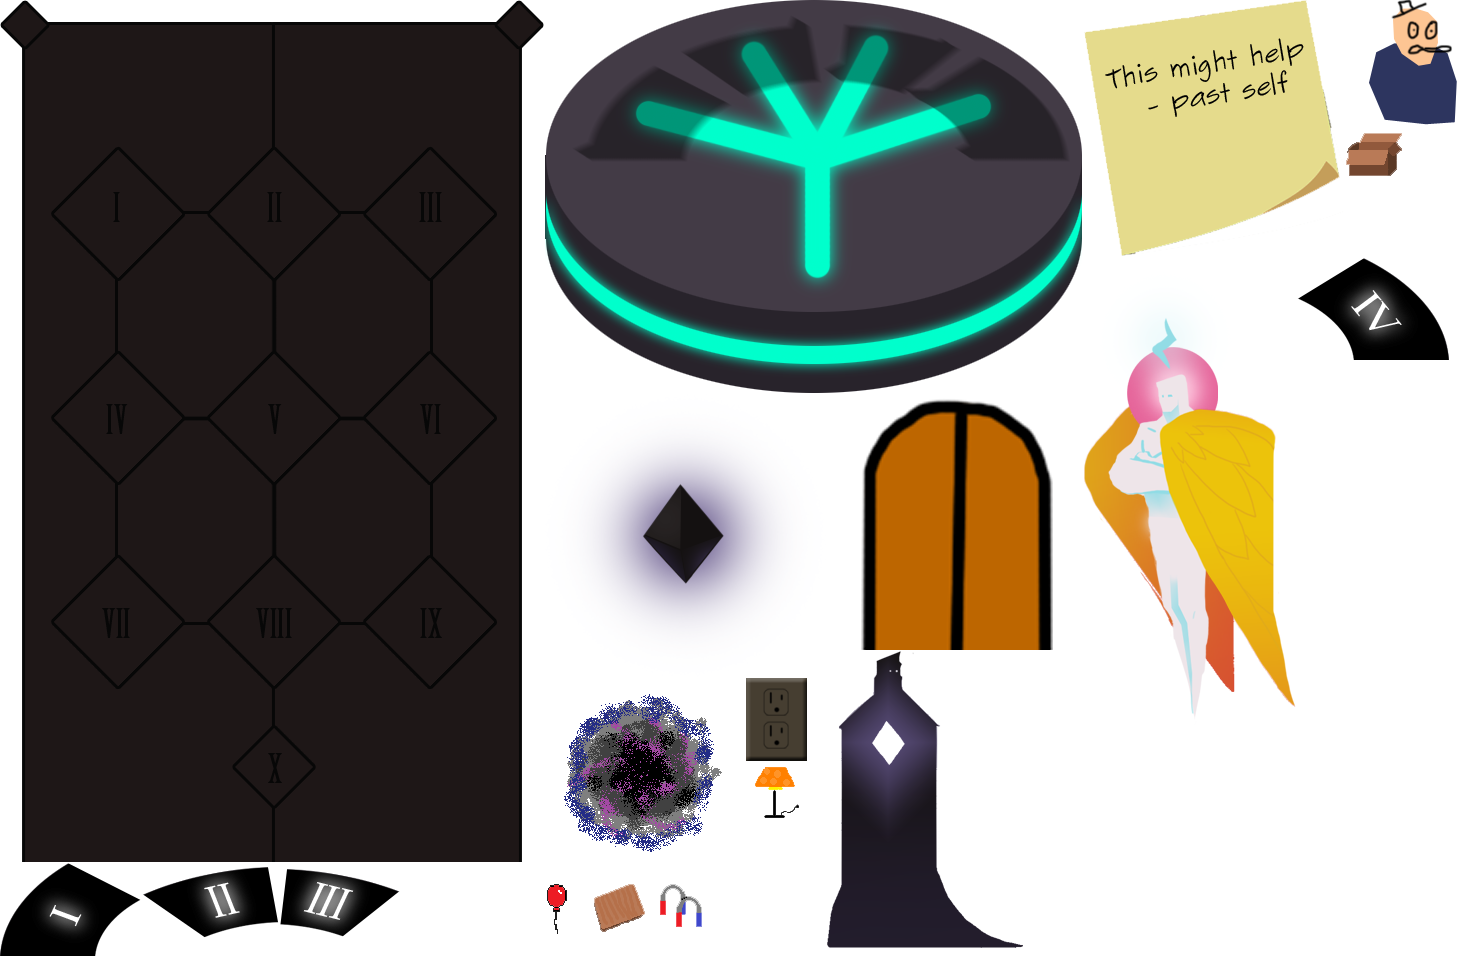
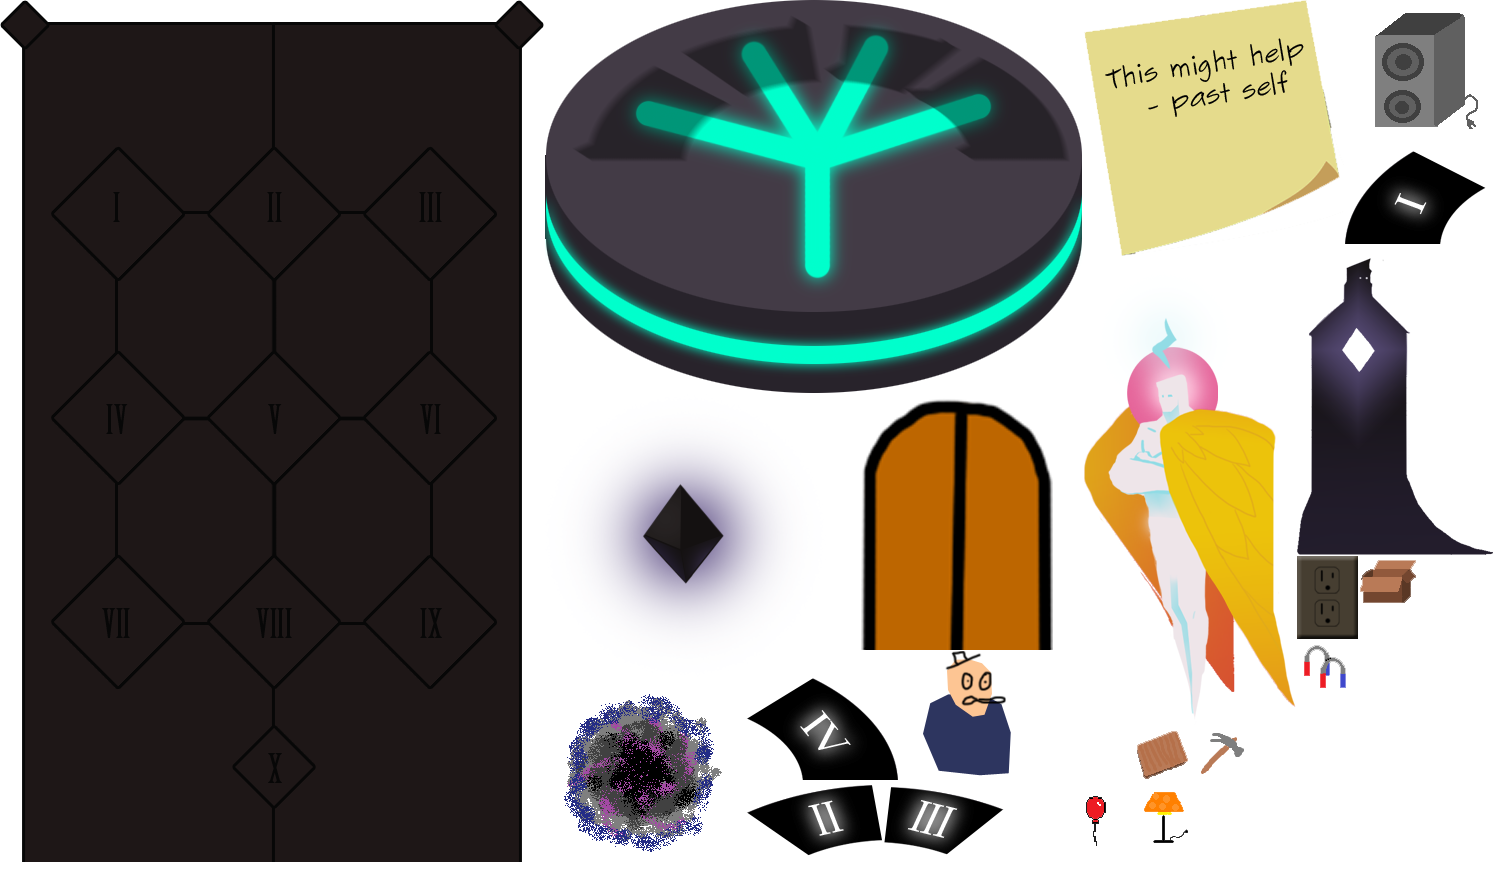
speaker and such

Changed region(s): [[0.0, 0.0, 0.9986, 1.0], [0.7178, 0.8303, 0.8426, 0.9533]]

diff --git a/index.bundle.js b/index.bundle.js
@@ -45350,6 +45350,9 @@ ClickTarget.prototype.triggerAction = function(action)
 	}
 	else if (action.action == "triggerScene")
 	{
+		if (action.addItem){
+			Inventory.addItem(Inventory.items[action.addItem]);
+		}
 		SceneManager.changeScene(action.target, SceneManager.ANIM_FORWARD);
 	}
 	else if (action.action == "disable")
@@ -45358,6 +45361,9 @@ ClickTarget.prototype.triggerAction = function(action)
 	}
 	else if (action.action == "interact")
 	{
+		if (action.addItem){
+			Inventory.addItem(Inventory.items[action.addItem]);
+		}
 		if (action.globaIsTrue) {
 			this.interact(action.target, action.setGlobals, action.globalIsTrue);
 		}
@@ -46197,12 +46203,15 @@ Inventory.items = {
     },
     magnets: {
         sprite: "magnets"
+    },
+    hammer: {
+        sprite: "hammer"
     }
 }
 
 Inventory.added = function() {
     var inventory = document.getElementById("inventory");
-    for (var i = 0; i < 5; i++)
+    for (var i = 0; i < 6; i++)
     {
         var li = document.createElement("li");
         inventory.appendChild(li);
@@ -46221,14 +46230,14 @@ Inventory.added = function() {
         this.inventoryDisplay[i] = li;
         this.itemList[i] = undefined; 
     }
-    for (var i = 0; i < 5; i++)
+    for (var i = 0; i < 6; i++)
     {
         this.inventoryDisplay[i].addEventListener("click", this.select(i));
     }
 
 }
 Inventory.addItem = function(item) {
-   for (var i = 0; i < 5; i++){
+   for (var i = 0; i < 6; i++){
        if (this.itemList[i] == undefined){
            ThreeUtils.setElementToAtlasImage(
                this.inventoryDisplay[i].image, ThreeUtils.loadAtlas("general"), item.sprite);
@@ -46240,7 +46249,7 @@ Inventory.addItem = function(item) {
    GlobalVariables.setVariable(item + "_OBTAINED")
 }
 Inventory.removeItem = function(item) {
-   for (var i = 0; i < 5; i++){
+   for (var i = 0; i < 6; i++){
        if (Inventory.itemList[i] == item){
            this.inventoryDisplay[i].image.style.visibility = "hidden";
            this.itemList[i] = undefined;
@@ -46253,7 +46262,7 @@ Inventory.select = function(index){
     return function() {
         Inventory.inventoryDisplay[index].style.boxShadow = "0px 0px 5px #fff";
         Inventory.inventoryDisplay[index].style.border = "5px solid white";
-        if (index < 4){
+        if (index < 5){
             Inventory.inventoryDisplay[index+1].style.borderTop = "0px";
         }
         Inventory.itemSelected = index;
@@ -46264,7 +46273,7 @@ Inventory.deselect = function(){
     if (index > -1){
         Inventory.inventoryDisplay[index].style.boxShadow = "0px 0px 0px #fff";
         Inventory.inventoryDisplay[index].style.border = "5px solid slategrey";
-        if (index < 4){
+        if (index < 5){
             Inventory.inventoryDisplay[index].style.borderBottom = "0px";
             Inventory.inventoryDisplay[index+1].style.borderTop = "5px solid slategrey";
         }
@@ -46554,6 +46563,20 @@ FieldScene.prototype.added = function()
 		action: "collectItem",
 		target: "cardboard_box"
 	})
+	var hammer = this.createClickableSprite("hammer", 400, -200);
+	hammer.addAction({
+		action: "collectItem",
+		target: "hammer"
+	})
+	var speaker = this.createClickableSprite("speaker", 300, -200);
+	speaker.addAction({
+		action: "interact",
+		target: "hammer",
+		setGlobals: ["SPEAKER_BROKEN"],
+		addItem: "magnets"
+	})
+	speaker.addFalse("SPEAKER_BROKEN");
+
 
 	Scene.prototype.added.call(this);
 }
@@ -46897,7 +46920,8 @@ PrisonScene6.prototype.added = function()
 	doorClickTarget.addAction({
 		action: "triggerScene",
 		target: "prison7",
-		globalIsTrue: "CARDBOARD_WALL"
+		globalIsTrue: "CARDBOARD_WALL",
+		addItem: "cardboard"
 	})
 
 	PrisonScene.prototype.added.call(this);
@@ -47398,30 +47422,32 @@ module.exports =
 "general":
 {
 	url: "media/general_atlas.png",
-	width: 1474,
-	height: 956,
+	width: 1496,
+	height: 878,
 	filter: THREE.LinearFilter,
 	sprites:
 	{
-	"balloon":[531,879,60,60],
-	"cardboard":[592,879,60,60],
-	"cardboardbox":[1345,129,60,60],
+	"balloon":[1070,791,60,60],
+	"cardboard":[1135,726,60,60],
+	"cardboardbox":[1359,556,60,60],
 	"crystal":[545,394,281,283],
 	"door":[827,394,256,256],
-	"grad_circle":[401,863,64,64],
-	"grad_r":[466,863,64,64],
+	"grad_circle":[1005,780,64,64],
+	"grad_r":[1070,726,64,64],
+	"hammer":[1196,726,60,60],
 	"heaven_angel":[1084,258,212,467],
-	"heaven_player":[827,651,196,297],
-	"johnson15_sprite":[1345,0,128,128],
+	"heaven_player":[1297,258,196,297],
+	"johnson15_sprite":[899,651,128,128],
 	"keydoor":[0,0,544,862],
-	"lamp":[746,762,60,60],
-	"magnets":[653,879,60,60],
-	"outlet":[746,678,61,83],
+	"lamp":[1135,787,60,60],
+	"magnets":[1297,640,60,60],
+	"outlet":[1297,556,61,83],
+	"speaker":[1345,0,150,150],
 	"timedevice":[545,0,537,393],
-	"timedevice_button1":[0,863,141,93],
-	"timedevice_button2":[142,863,137,75],
-	"timedevice_button3":[280,863,120,76],
-	"timedevice_button4":[1297,258,152,102],
+	"timedevice_button1":[1345,151,141,93],
+	"timedevice_button2":[746,781,137,75],
+	"timedevice_button3":[884,781,120,76],
+	"timedevice_button4":[746,678,152,102],
 	"timedevice_sticky":[1083,0,261,257],
 	"wormhole":[545,678,200,200],
 	},

diff --git a/src/game/inventory.js b/src/game/inventory.js
@@ -25,12 +25,15 @@ Inventory.items = {
     },
     magnets: {
         sprite: "magnets"
+    },
+    hammer: {
+        sprite: "hammer"
     }
 }
 
 Inventory.added = function() {
     var inventory = document.getElementById("inventory");
-    for (var i = 0; i < 5; i++)
+    for (var i = 0; i < 6; i++)
     {
         var li = document.createElement("li");
         inventory.appendChild(li);
@@ -49,14 +52,14 @@ Inventory.added = function() {
         this.inventoryDisplay[i] = li;
         this.itemList[i] = undefined; 
     }
-    for (var i = 0; i < 5; i++)
+    for (var i = 0; i < 6; i++)
     {
         this.inventoryDisplay[i].addEventListener("click", this.select(i));
     }
 
 }
 Inventory.addItem = function(item) {
-   for (var i = 0; i < 5; i++){
+   for (var i = 0; i < 6; i++){
        if (this.itemList[i] == undefined){
            ThreeUtils.setElementToAtlasImage(
                this.inventoryDisplay[i].image, ThreeUtils.loadAtlas("general"), item.sprite);
@@ -68,7 +71,7 @@ Inventory.addItem = function(item) {
    GlobalVariables.setVariable(item + "_OBTAINED")
 }
 Inventory.removeItem = function(item) {
-   for (var i = 0; i < 5; i++){
+   for (var i = 0; i < 6; i++){
        if (Inventory.itemList[i] == item){
            this.inventoryDisplay[i].image.style.visibility = "hidden";
            this.itemList[i] = undefined;
@@ -81,7 +84,7 @@ Inventory.select = function(index){
     return function() {
         Inventory.inventoryDisplay[index].style.boxShadow = "0px 0px 5px #fff";
         Inventory.inventoryDisplay[index].style.border = "5px solid white";
-        if (index < 4){
+        if (index < 5){
             Inventory.inventoryDisplay[index+1].style.borderTop = "0px";
         }
         Inventory.itemSelected = index;
@@ -92,7 +95,7 @@ Inventory.deselect = function(){
     if (index > -1){
         Inventory.inventoryDisplay[index].style.boxShadow = "0px 0px 0px #fff";
         Inventory.inventoryDisplay[index].style.border = "5px solid slategrey";
-        if (index < 4){
+        if (index < 5){
             Inventory.inventoryDisplay[index].style.borderBottom = "0px";
             Inventory.inventoryDisplay[index+1].style.borderTop = "5px solid slategrey";
         }

diff --git a/src/sdk/atlases/index.js b/src/sdk/atlases/index.js
@@ -9,30 +9,32 @@ module.exports =
 "general":
 {
 	url: "media/general_atlas.png",
-	width: 1474,
-	height: 956,
+	width: 1496,
+	height: 878,
 	filter: THREE.LinearFilter,
 	sprites:
 	{
-	"balloon":[531,879,60,60],
-	"cardboard":[592,879,60,60],
-	"cardboardbox":[1345,129,60,60],
+	"balloon":[1070,791,60,60],
+	"cardboard":[1135,726,60,60],
+	"cardboardbox":[1359,556,60,60],
 	"crystal":[545,394,281,283],
 	"door":[827,394,256,256],
-	"grad_circle":[401,863,64,64],
-	"grad_r":[466,863,64,64],
+	"grad_circle":[1005,780,64,64],
+	"grad_r":[1070,726,64,64],
+	"hammer":[1196,726,60,60],
 	"heaven_angel":[1084,258,212,467],
-	"heaven_player":[827,651,196,297],
-	"johnson15_sprite":[1345,0,128,128],
+	"heaven_player":[1297,258,196,297],
+	"johnson15_sprite":[899,651,128,128],
 	"keydoor":[0,0,544,862],
-	"lamp":[746,762,60,60],
-	"magnets":[653,879,60,60],
-	"outlet":[746,678,61,83],
+	"lamp":[1135,787,60,60],
+	"magnets":[1297,640,60,60],
+	"outlet":[1297,556,61,83],
+	"speaker":[1345,0,150,150],
 	"timedevice":[545,0,537,393],
-	"timedevice_button1":[0,863,141,93],
-	"timedevice_button2":[142,863,137,75],
-	"timedevice_button3":[280,863,120,76],
-	"timedevice_button4":[1297,258,152,102],
+	"timedevice_button1":[1345,151,141,93],
+	"timedevice_button2":[746,781,137,75],
+	"timedevice_button3":[884,781,120,76],
+	"timedevice_button4":[746,678,152,102],
 	"timedevice_sticky":[1083,0,261,257],
 	"wormhole":[545,678,200,200],
 	},

diff --git a/src/game/clicktarget.js b/src/game/clicktarget.js
@@ -201,6 +201,9 @@ ClickTarget.prototype.triggerAction = function(action)
 	}
 	else if (action.action == "triggerScene")
 	{
+		if (action.addItem){
+			Inventory.addItem(Inventory.items[action.addItem]);
+		}
 		SceneManager.changeScene(action.target, SceneManager.ANIM_FORWARD);
 	}
 	else if (action.action == "disable")
@@ -209,6 +212,9 @@ ClickTarget.prototype.triggerAction = function(action)
 	}
 	else if (action.action == "interact")
 	{
+		if (action.addItem){
+			Inventory.addItem(Inventory.items[action.addItem]);
+		}
 		if (action.globaIsTrue) {
 			this.interact(action.target, action.setGlobals, action.globalIsTrue);
 		}

diff --git a/src/game/scene_past_field.js b/src/game/scene_past_field.js
@@ -36,6 +36,20 @@ FieldScene.prototype.added = function()
 		action: "collectItem",
 		target: "cardboard_box"
 	})
+	var hammer = this.createClickableSprite("hammer", 400, -200);
+	hammer.addAction({
+		action: "collectItem",
+		target: "hammer"
+	})
+	var speaker = this.createClickableSprite("speaker", 300, -200);
+	speaker.addAction({
+		action: "interact",
+		target: "hammer",
+		setGlobals: ["SPEAKER_BROKEN"],
+		addItem: "magnets"
+	})
+	speaker.addFalse("SPEAKER_BROKEN");
+
 
 	Scene.prototype.added.call(this);
 }

diff --git a/src/game/scene_prison6.js b/src/game/scene_prison6.js
@@ -30,7 +30,8 @@ PrisonScene6.prototype.added = function()
 	doorClickTarget.addAction({
 		action: "triggerScene",
 		target: "prison7",
-		globalIsTrue: "CARDBOARD_WALL"
+		globalIsTrue: "CARDBOARD_WALL",
+		addItem: "cardboard"
 	})
 
 	PrisonScene.prototype.added.call(this);
